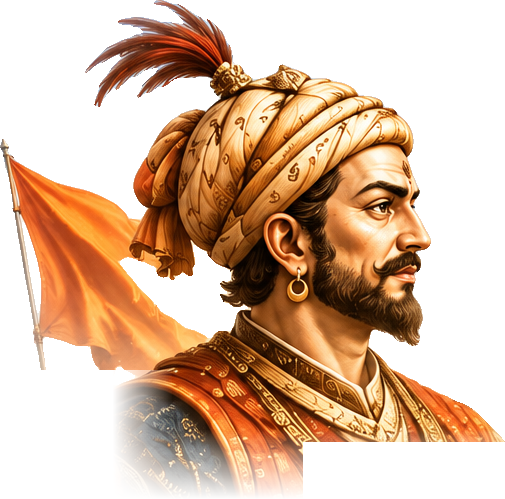
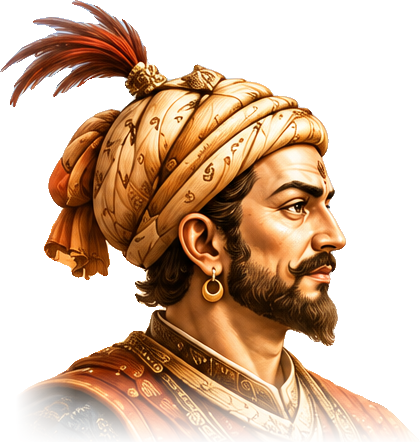
Homepage hero v7 (local, not deployed): portrait natural bottom fade, mascot 1/3 portrait height

diff --git a/frontend/src/pages/Home.jsx b/frontend/src/pages/Home.jsx
@@ -323,9 +323,9 @@ export default function Home() {
                     <source srcSet="/images/shivaji-hero-v6.webp" type="image/webp" />
                     <img
                       src="/images/shivaji-hero-v6.png"
-                      alt="Chhatrapati Shivaji Maharaj with the saffron flag."
-                      width="505"
-                      height="499"
+                      alt="Portrait of Chhatrapati Shivaji Maharaj."
+                      width="420"
+                      height="442"
                       decoding="async"
                       fetchPriority="high"
                     />

diff --git a/frontend/src/pages/Home.css b/frontend/src/pages/Home.css
@@ -1361,16 +1361,16 @@
   /* group: right edge on the content container, vertically centred with
      the text column; clear of the heading, buttons and chips */
   .hb-fig-shivaji {
-    top: 6%;
+    top: 10%;
     right: 3%;
     bottom: auto;
-    height: 70%;
+    height: 78%;
   }
 
   .hb-fig-bot {
-    right: 1%;
-    bottom: 6%;
-    height: 29%;
+    right: 3%;
+    bottom: 4%;
+    height: 26%;
   }
 
   .hb-hero-inner {
